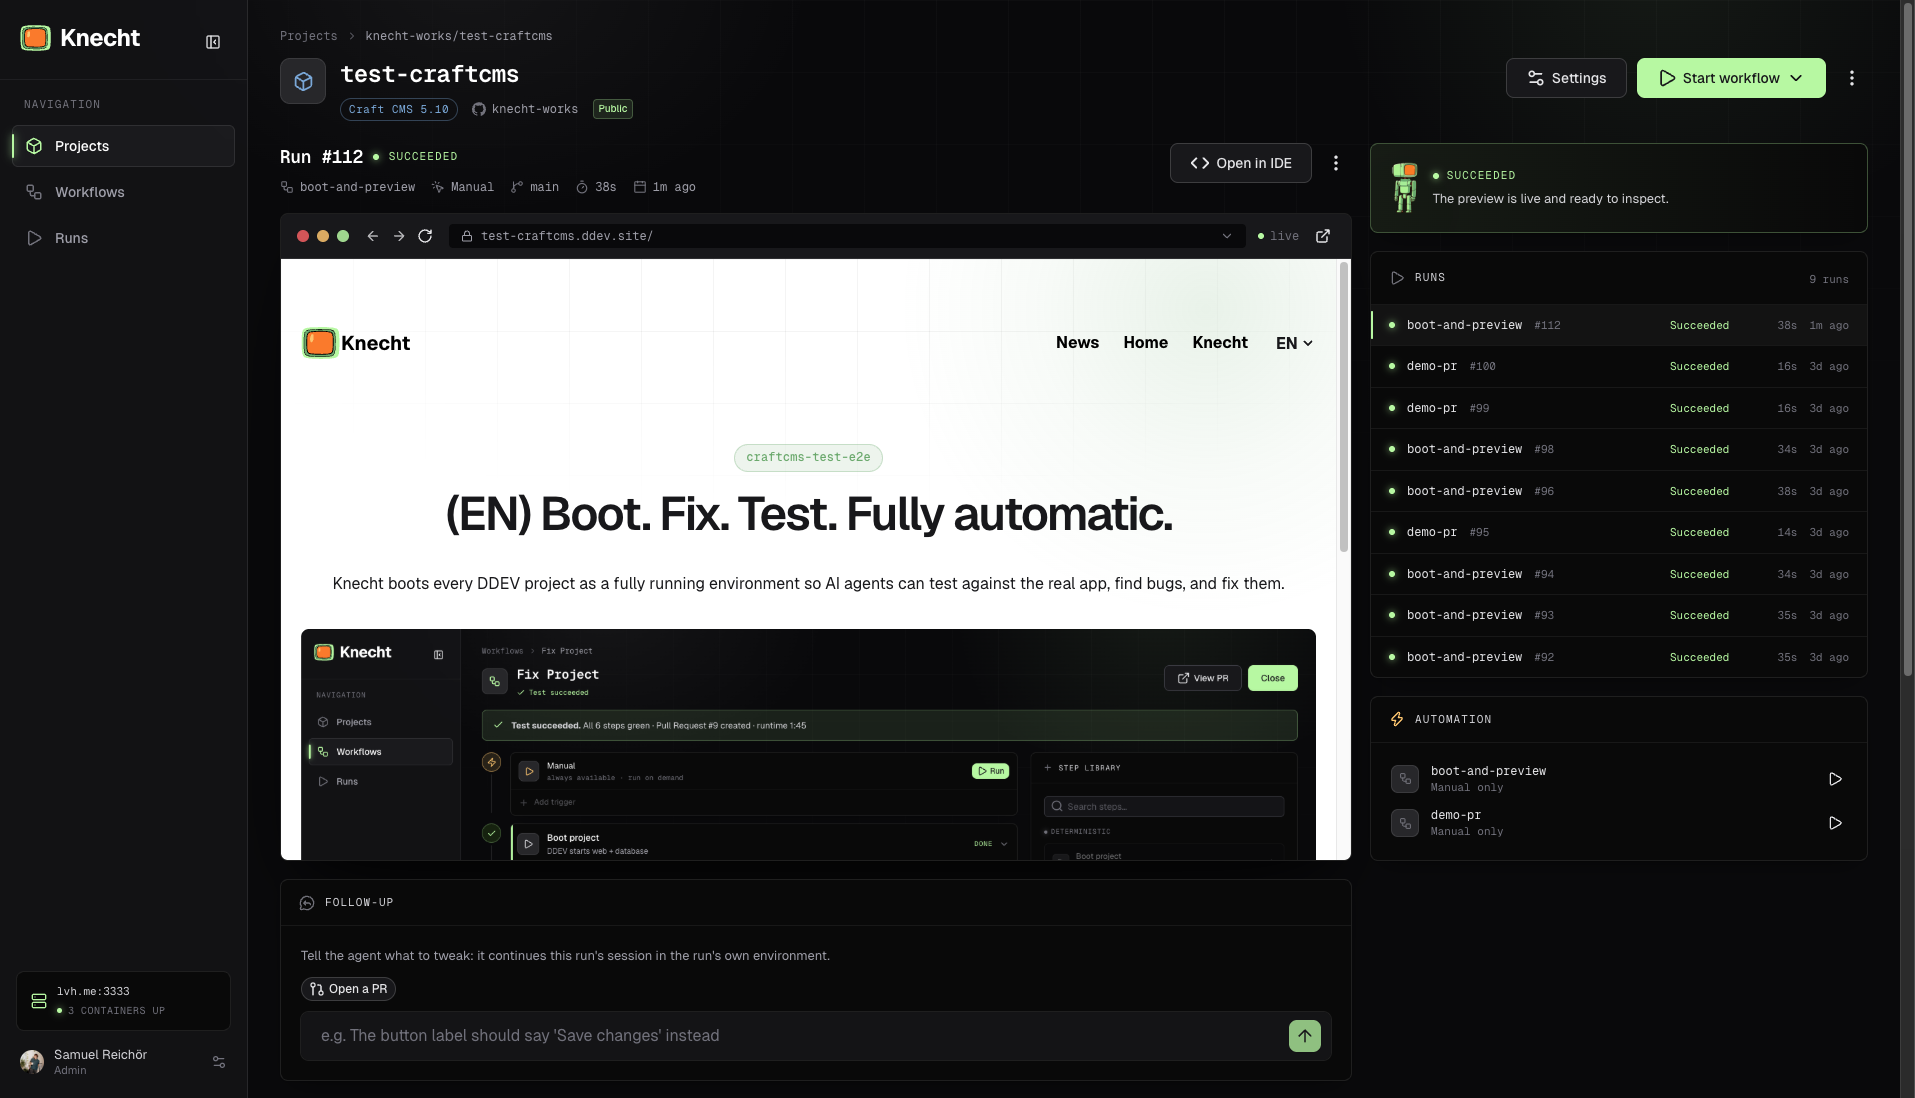
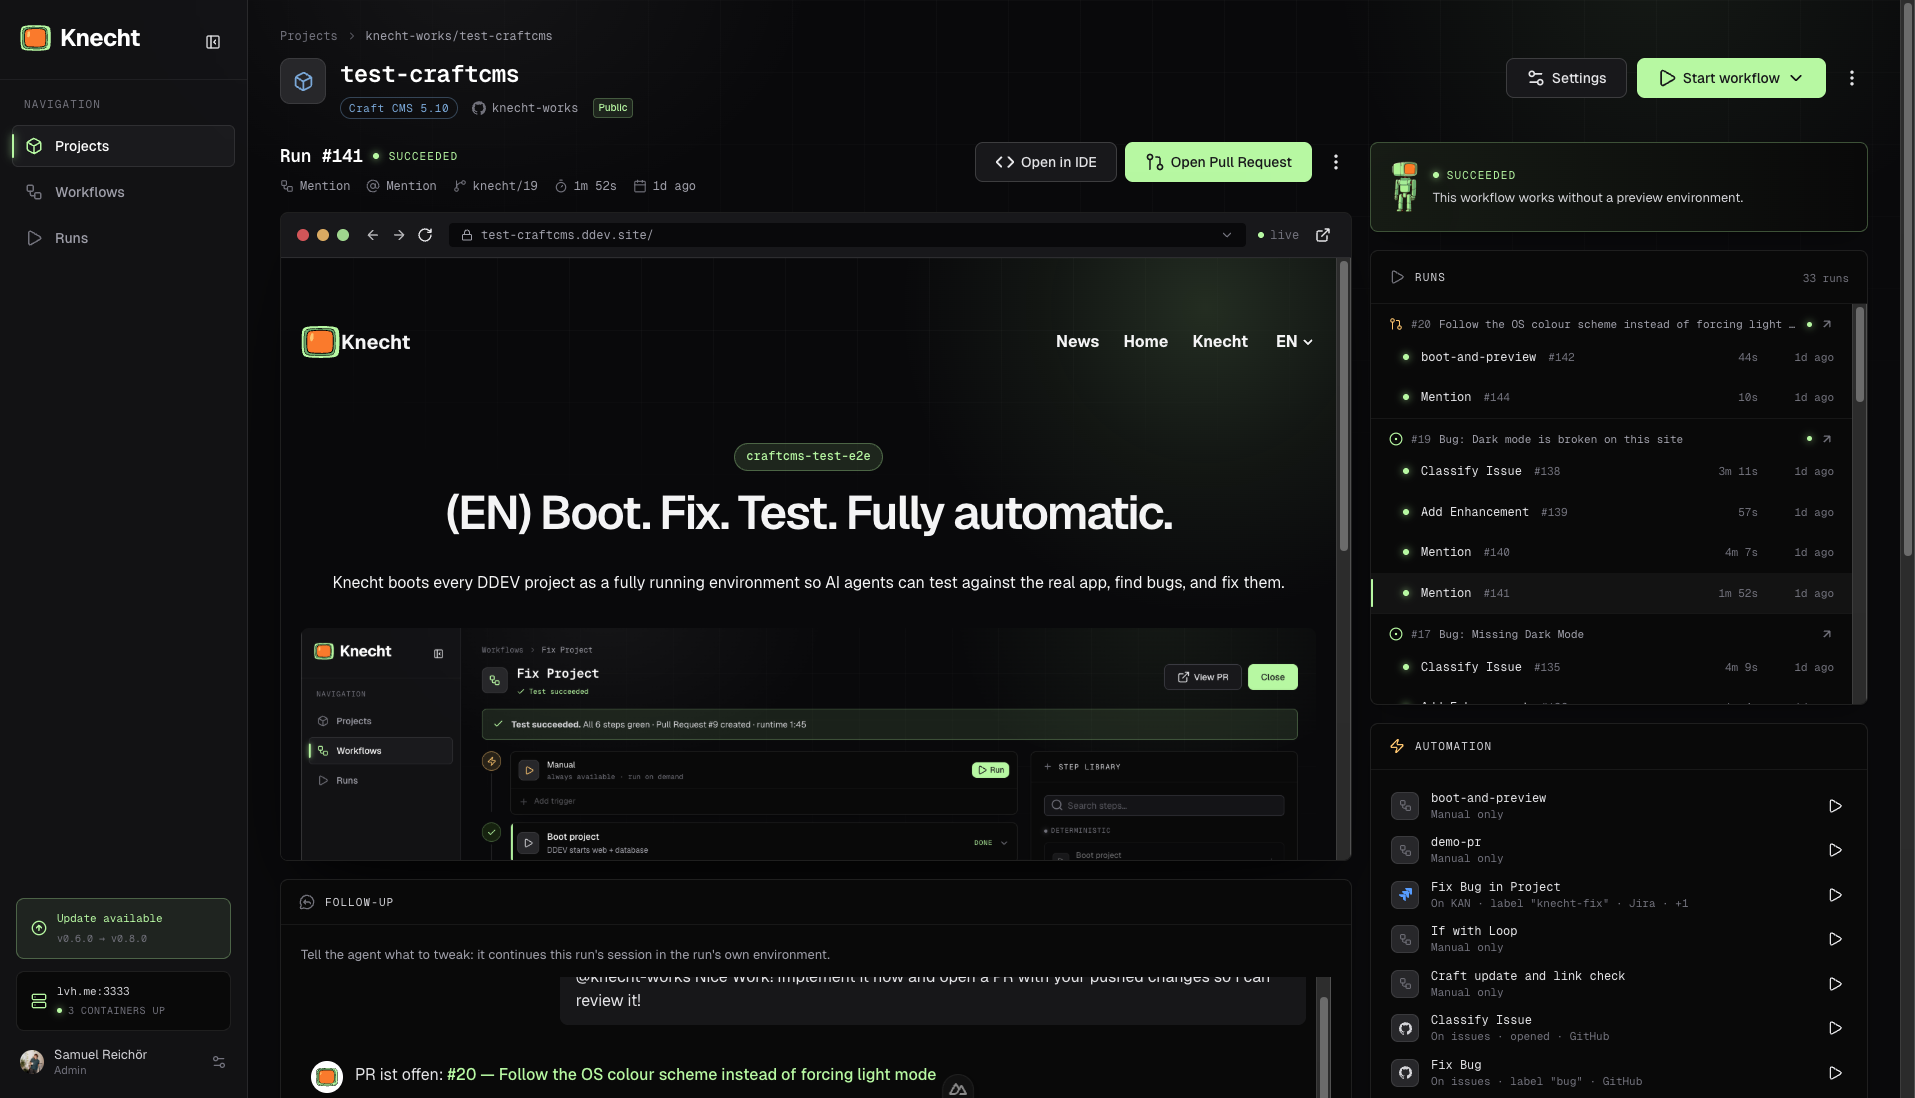
Update home

diff --git a/app/components/AppHomeProgress.vue b/app/components/AppHomeProgress.vue
@@ -1,7 +1,7 @@
 <script setup lang="ts">
 import { animate, inView } from 'motion-v'
 
-const progress = 72
+const progress = 80
 
 // Bar fill + percentage count up together from a single value, kicked off the
 // first time the panel scrolls into view (jumps straight to the target when the
@@ -54,7 +54,7 @@ const phaseMeta: { status: Status, key: string }[] = [
   { status: 'done', key: 'knechtLives' },
   { status: 'done', key: 'jiraTrigger' },
   { status: 'done', key: 'sshIde' },
-  { status: 'progress', key: 'feedbackLoop' },
+  { status: 'done', key: 'feedbackLoop' },
   { status: 'progress', key: 'betaTesters' },
   { status: 'progress', key: 'testActions' },
   { status: 'rest', key: 'browserValidation' },
